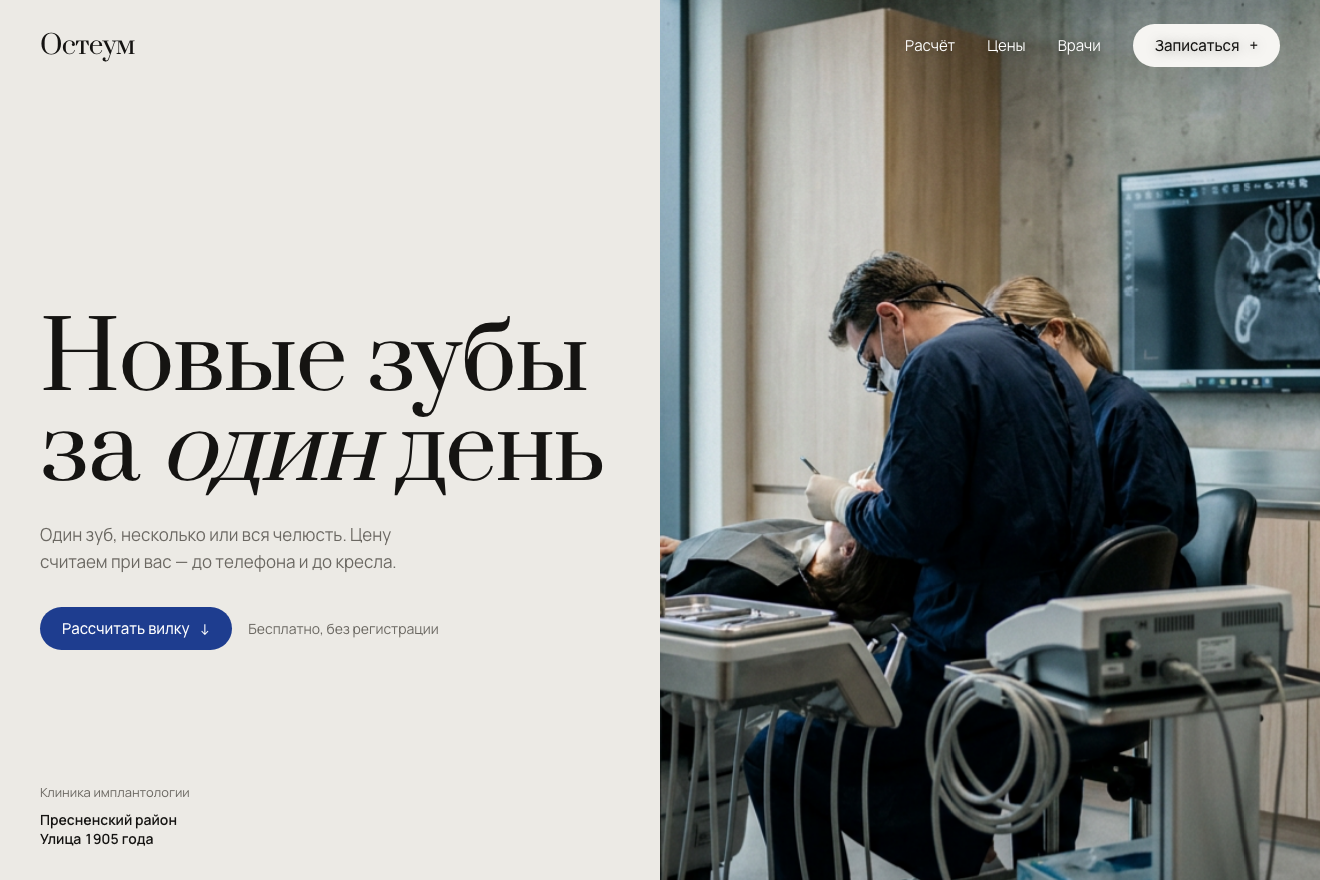
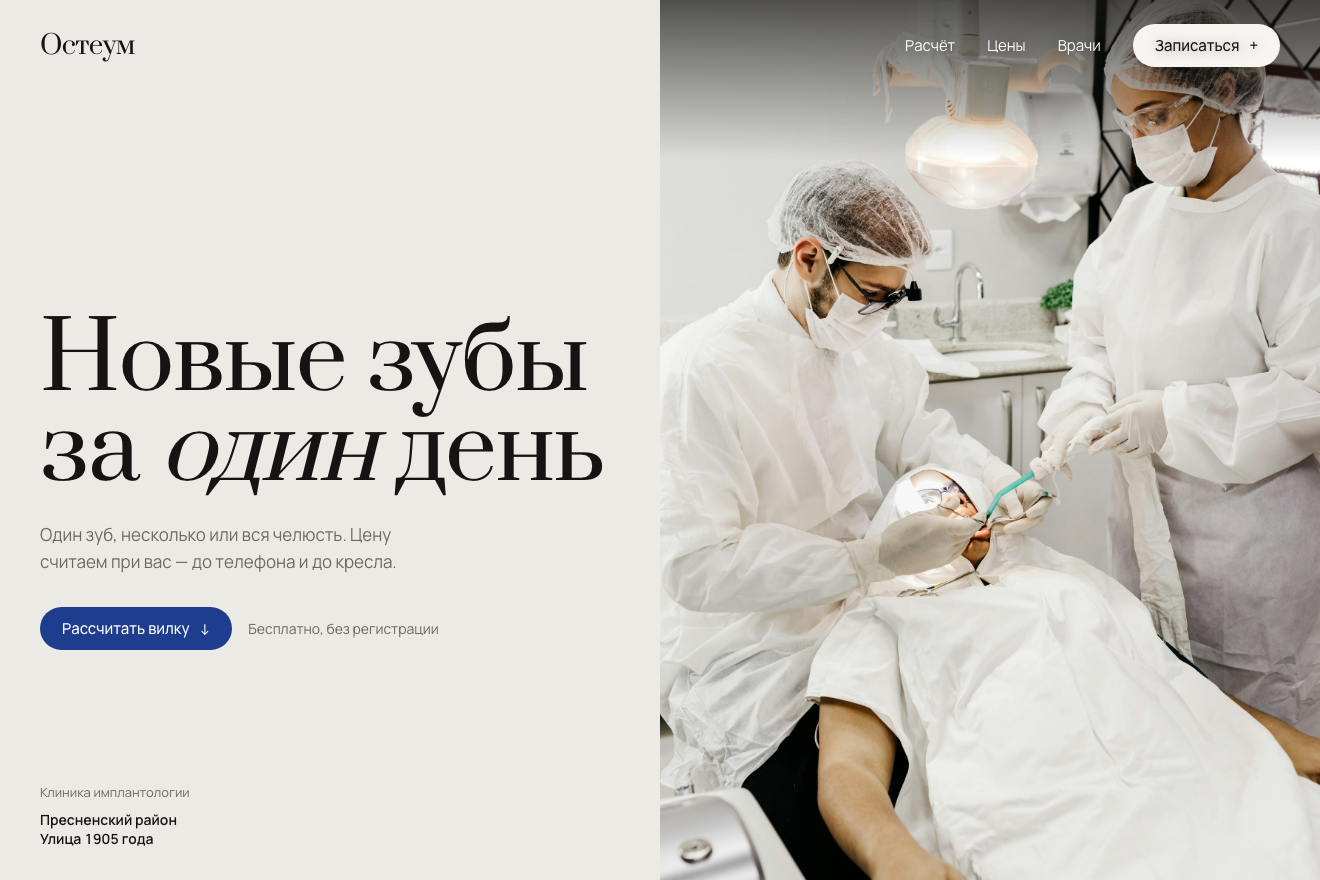
Ostium: затемняющий козырёк над фото героя — читаемость шапки и заголовка

diff --git a/Ostium/components/Hero.tsx b/Ostium/components/Hero.tsx
@@ -9,7 +9,9 @@ export default function Hero() {
       <div className="absolute inset-y-0 right-0 w-full md:w-1/2">
         <Image src={img('operating-room.jpg')} alt="Операционная клиники, хирург и ассистент за работой"
           fill priority sizes="(min-width: 768px) 50vw, 100vw" className="kb object-cover object-[50%_30%]" />
-        <div className="absolute inset-0 bg-ink/40 md:bg-transparent" />
+        <div className="absolute inset-0 bg-ink/55 md:bg-transparent" />
+        {/* козырёк: белая шапка читается над светлым верхом кадра на любом размере */}
+        <div className="absolute inset-x-0 top-0 h-40 bg-gradient-to-b from-ink/70 to-transparent" />
       </div>
       <div className="absolute inset-y-0 left-0 hidden w-1/2 bg-paper md:block" />
 
